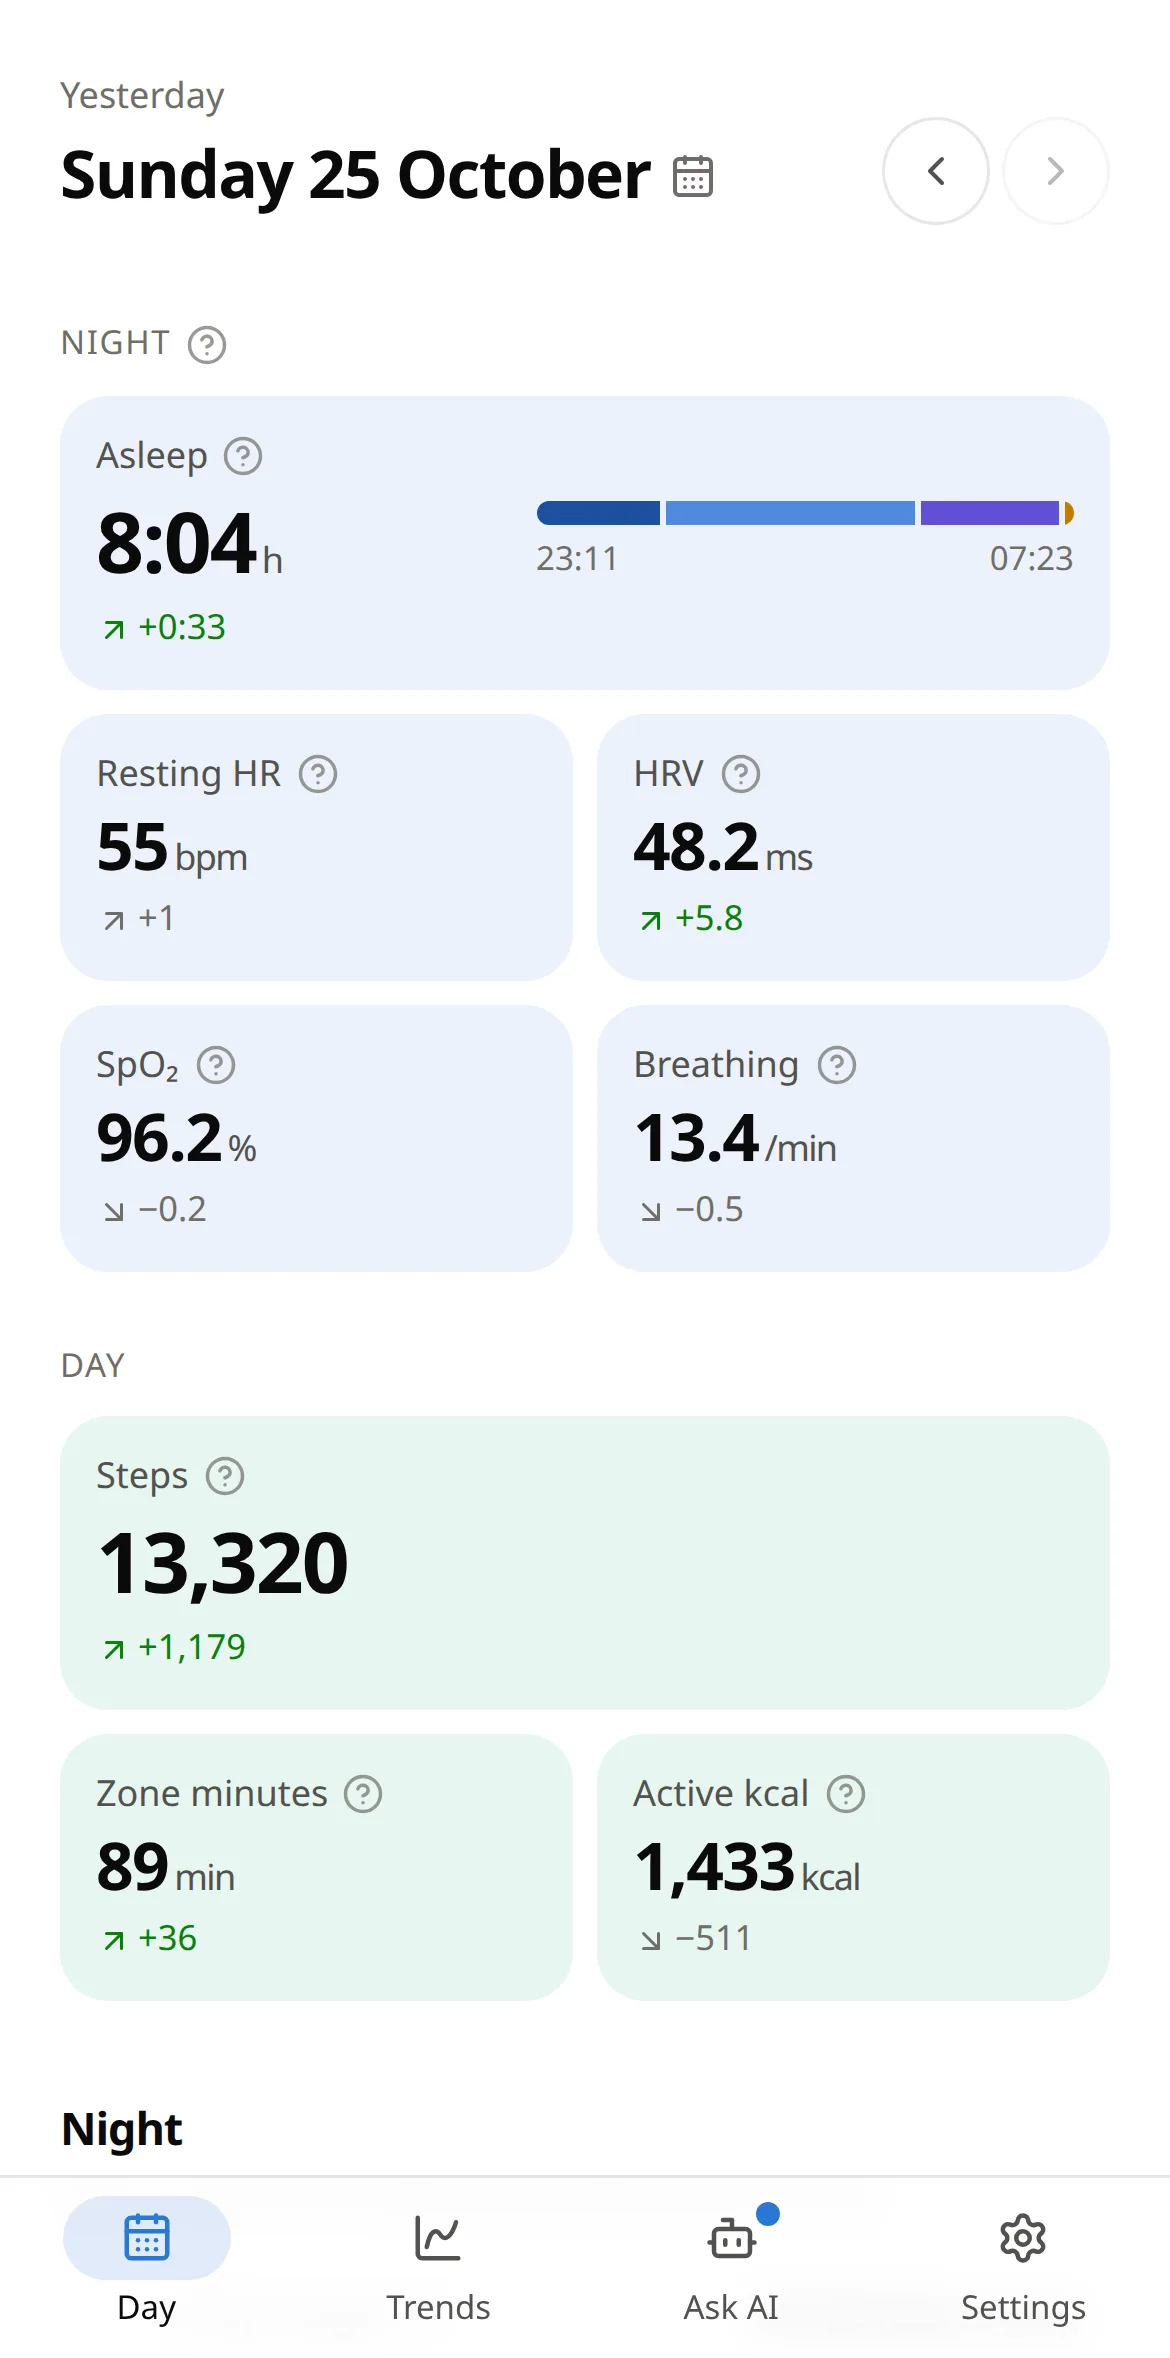
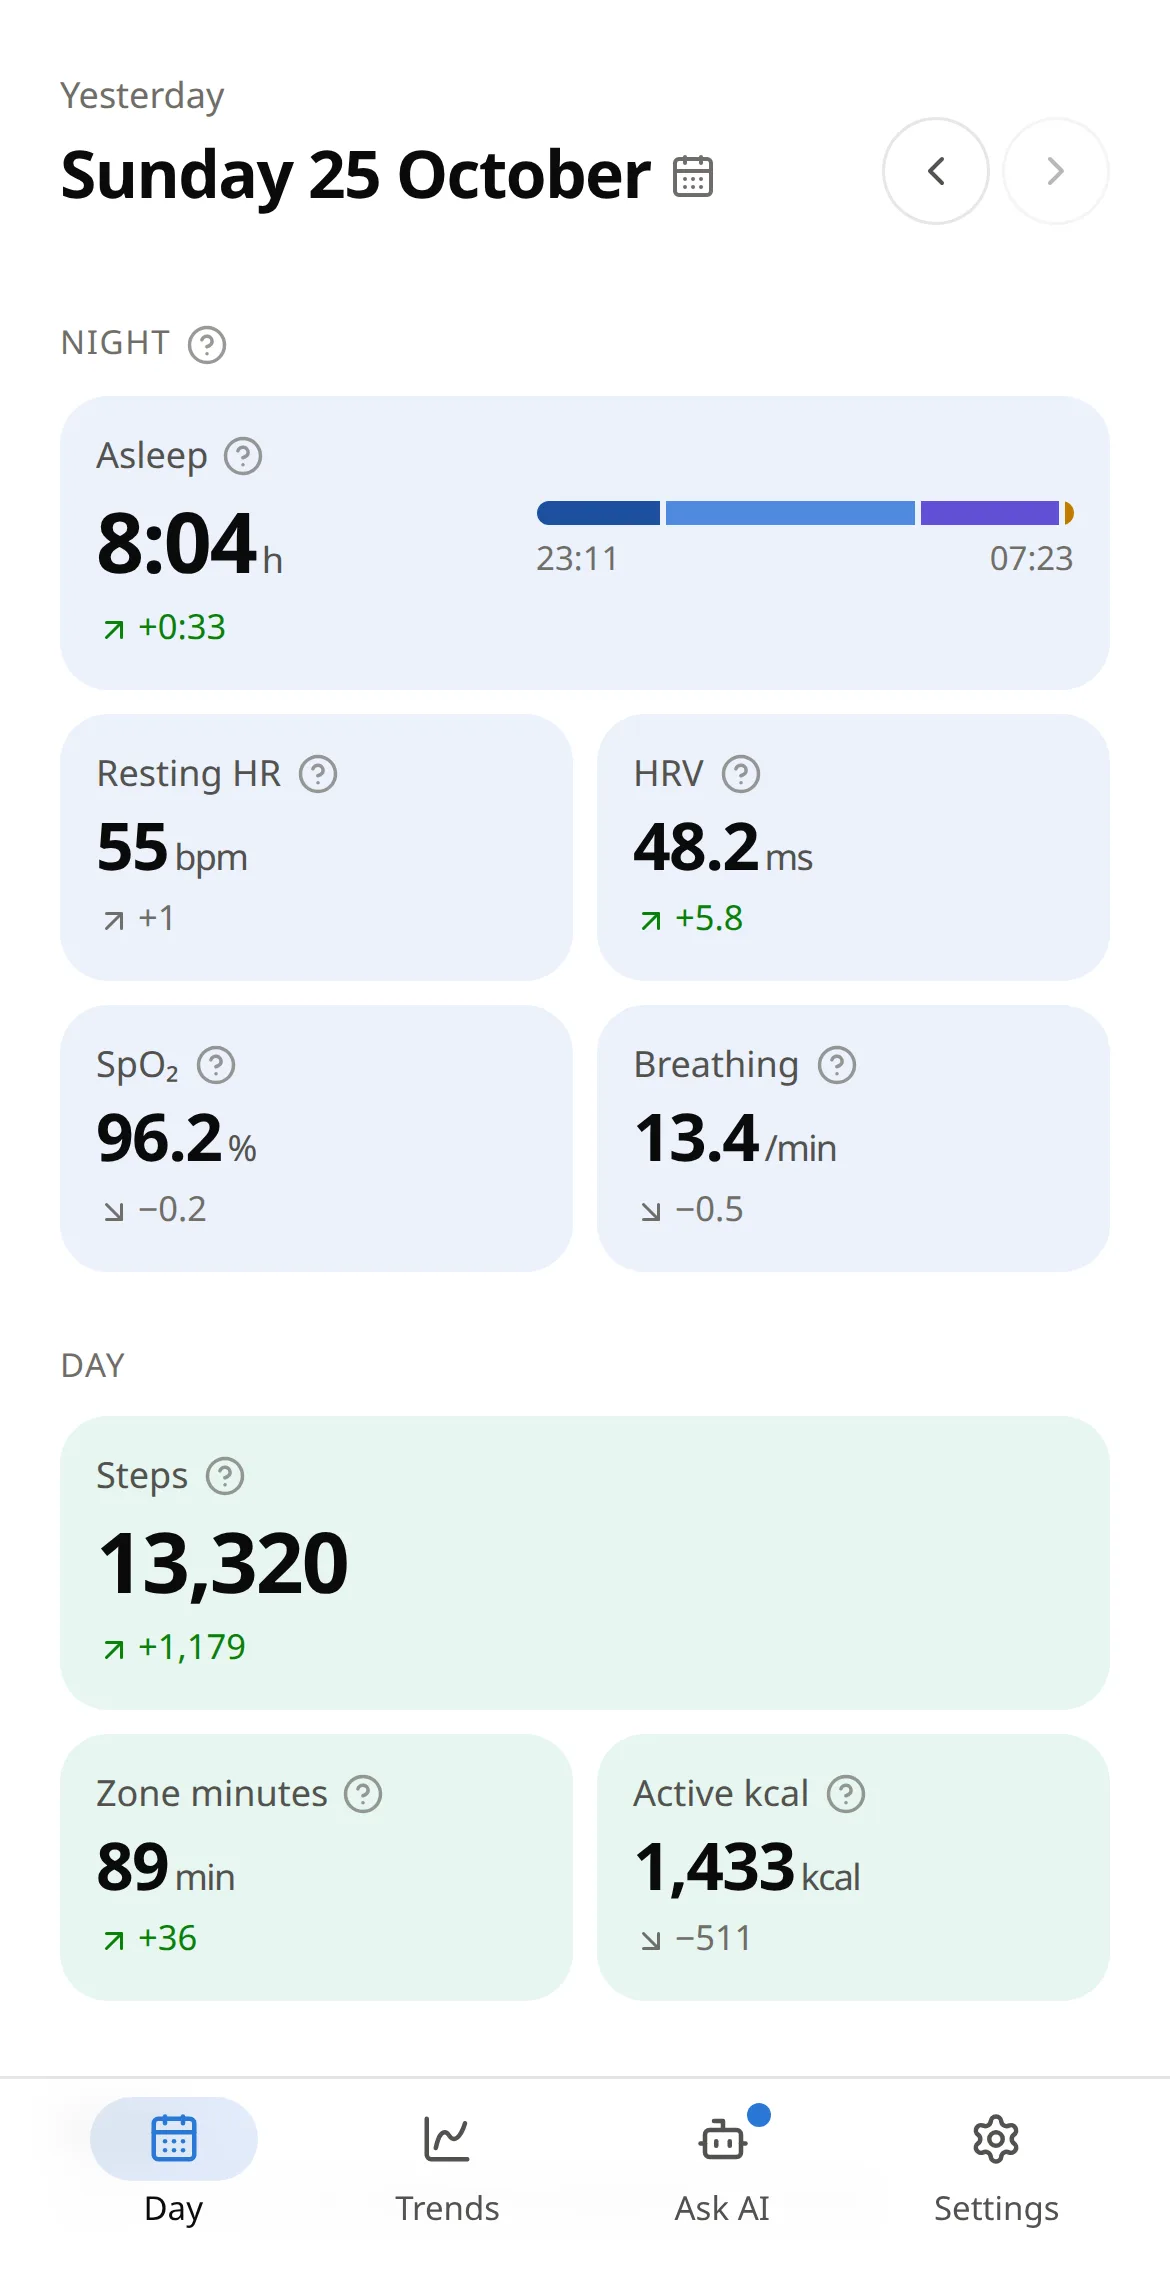
Home page: no "How it works"; room at the bottom of the phones
"How it works" explained what the page and the app should make obvious
on their own, so it goes, with the hero's button that led to it. In the
phone frame the tab bar's labels ran into the rounded corners: the frame
now has a home indicator below the screen, the screenshot is shot again
to fit, and the app's tab bar keeps a little more room at its sides and
bottom.

diff --git a/frontend/home.html b/frontend/home.html
@@ -57,7 +57,6 @@
         </p>
         <div class="mt-8 flex flex-wrap justify-center gap-3">
           <a href="/auth/login" class="inline-flex h-11 items-center rounded-lg bg-ink px-5 text-sm font-medium text-page hover:opacity-90">Sign in with Google</a>
-          <a href="#how" class="inline-flex h-11 items-center rounded-lg border bg-surface px-5 text-sm font-medium hover:bg-shade">How it works</a>
         </div>
         <p class="mt-3 text-[13px] text-muted">Free · read-only · open source · through the official Google Health API</p>
 
@@ -89,32 +88,6 @@
             <figcaption class="mt-2.5 text-center text-xs text-muted">In Claude, ChatGPT or any MCP assistant · demo data</figcaption>
           </figure>
         </div>
-      </section>
-
-      <section id="how" class="mx-auto max-w-6xl scroll-mt-16 px-4 pb-20">
-        <h2 class="text-center text-sm font-medium text-muted">How it works</h2>
-        <ol class="mt-6 grid gap-4 md:grid-cols-3">
-          <li class="rounded-xl border bg-surface p-5">
-            <span class="grid size-7 place-items-center rounded-full bg-ink text-[13px] font-semibold text-page">1</span>
-            <h3 class="mt-4 font-semibold">Sign in with Google</h3>
-            <p class="mt-1 text-sm text-ink-2">Allow Fitdata to read your Fitbit data. It can&apos;t change anything, and your history is ready in a few minutes.</p>
-          </li>
-          <li class="rounded-xl border bg-surface p-5">
-            <span class="grid size-7 place-items-center rounded-full bg-ink text-[13px] font-semibold text-page">2</span>
-            <h3 class="mt-4 font-semibold">Read your dashboard</h3>
-            <p class="mt-1 text-sm text-ink-2">Last night and today on one page, trends over months, and a (?) next to every number that says what it means.</p>
-          </li>
-          <li class="rounded-xl border bg-surface p-5">
-            <span class="grid size-7 place-items-center rounded-full bg-ink text-[13px] font-semibold text-page">3</span>
-            <h3 class="mt-4 font-semibold">Ask your AI</h3>
-            <p class="mt-1 text-sm text-ink-2">Add Fitdata as a connector in Claude or ChatGPT (<a href="/docs/ask-ai" class="font-medium text-ink underline underline-offset-2">two-minute setup</a>), then ask:</p>
-            <ul class="mt-3 flex flex-wrap gap-1.5">
-              <li class="rounded-full border bg-surface px-3 py-1.5 text-[13px] text-ink-2">I feel off. Am I getting sick?</li>
-              <li class="rounded-full border bg-surface px-3 py-1.5 text-[13px] text-ink-2">Do evening runs change my deep sleep?</li>
-              <li class="rounded-full border bg-surface px-3 py-1.5 text-[13px] text-ink-2">Is my resting heart rate going down?</li>
-            </ul>
-          </li>
-        </ol>
       </section>
 
       <section id="compare" class="scroll-mt-14 bg-surface-2 py-20">
@@ -179,8 +152,9 @@
               </div>
               <picture class="min-h-0 flex-1">
                 <source srcset="/src/home/phone-dark.webp" media="(prefers-color-scheme: dark)" />
-                <img src="/src/home/phone-light.webp" alt="Fitdata on a phone: tiles with last night&apos;s sleep (with its stages, 23:11 to 07:23), resting heart rate, HRV, SpO₂ and breathing, then the day&apos;s steps, zone minutes and active calories, each with its change against the week, and a tab bar for Day, Trends, Ask AI and Settings" width="1170" height="2358" class="block h-full w-full object-cover object-top" loading="lazy" />
+                <img src="/src/home/phone-light.webp" alt="Fitdata on a phone: tiles with last night&apos;s sleep (with its stages, 23:11 to 07:23), resting heart rate, HRV, SpO₂ and breathing, then the day&apos;s steps, zone minutes and active calories, each with its change against the week, and a tab bar for Day, Trends, Ask AI and Settings" width="1170" height="2271" class="block h-full w-full object-cover object-top" loading="lazy" />
               </picture>
+              <div class="flex shrink-0 justify-center pt-1.5 pb-2" aria-hidden="true"><span class="h-1 w-24 rounded-full bg-ink/80"></span></div>
             </div>
           </figure>
         </div>

diff --git a/frontend/src/components/AppShell.tsx b/frontend/src/components/AppShell.tsx
@@ -87,7 +87,7 @@ function TabBar({ failed }: { failed: boolean }) {
   return (
     <nav
       aria-label="Pages"
-      className="fixed inset-x-0 bottom-0 z-40 grid grid-cols-4 border-t bg-page/90 pb-[max(env(safe-area-inset-bottom),0.5rem)] backdrop-blur sm:hidden"
+      className="fixed inset-x-0 bottom-0 z-40 grid grid-cols-4 border-t bg-page/90 px-3 pb-[max(env(safe-area-inset-bottom),0.75rem)] backdrop-blur sm:hidden"
     >
       {tab('/', 'Day', CalendarDays)}
       {tab('/trends', 'Trends', ChartSpline)}
